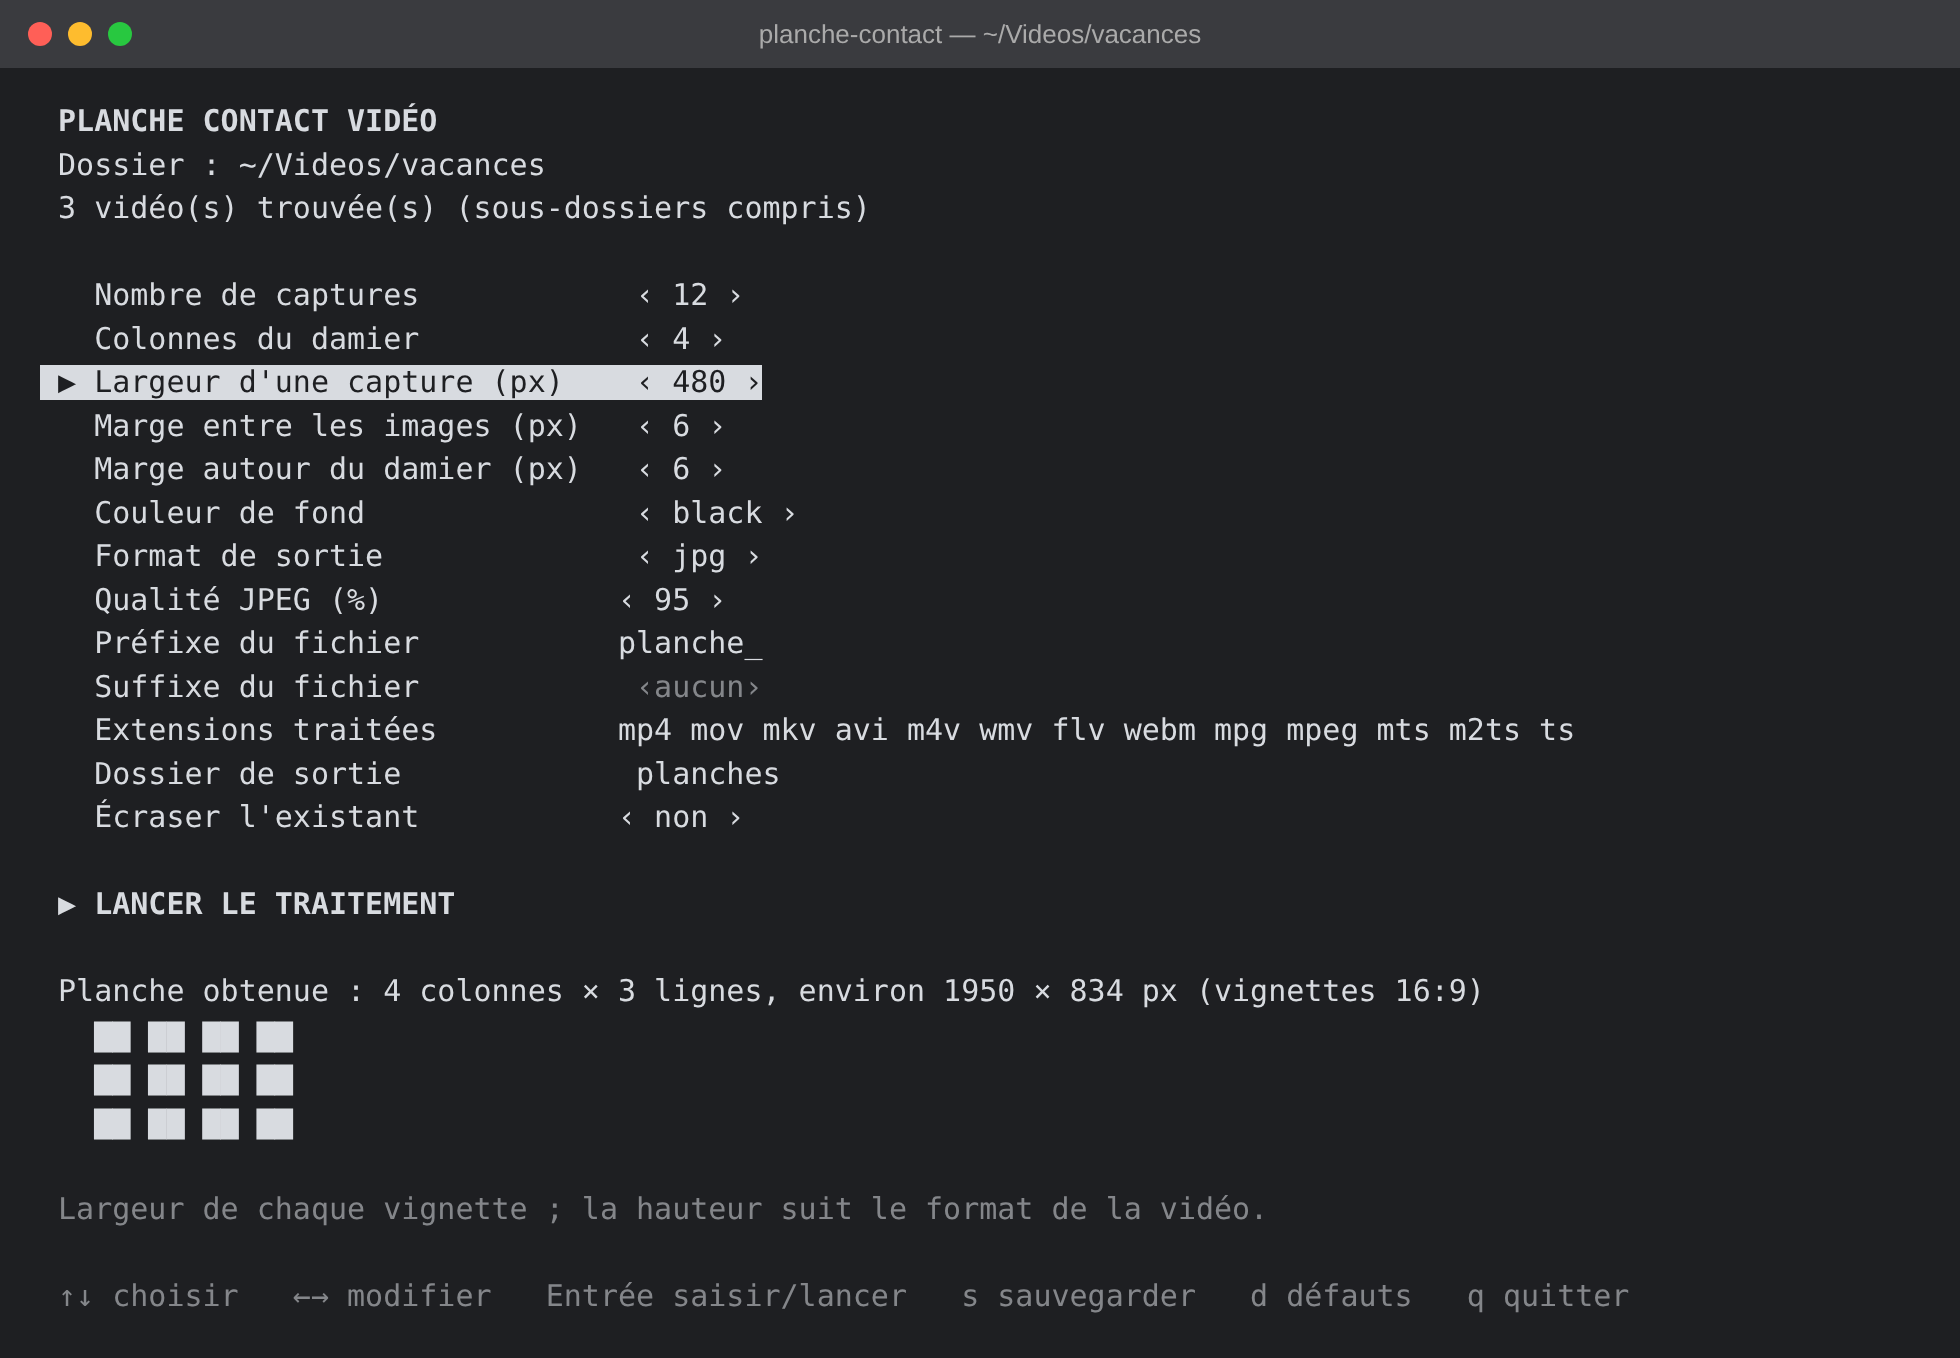
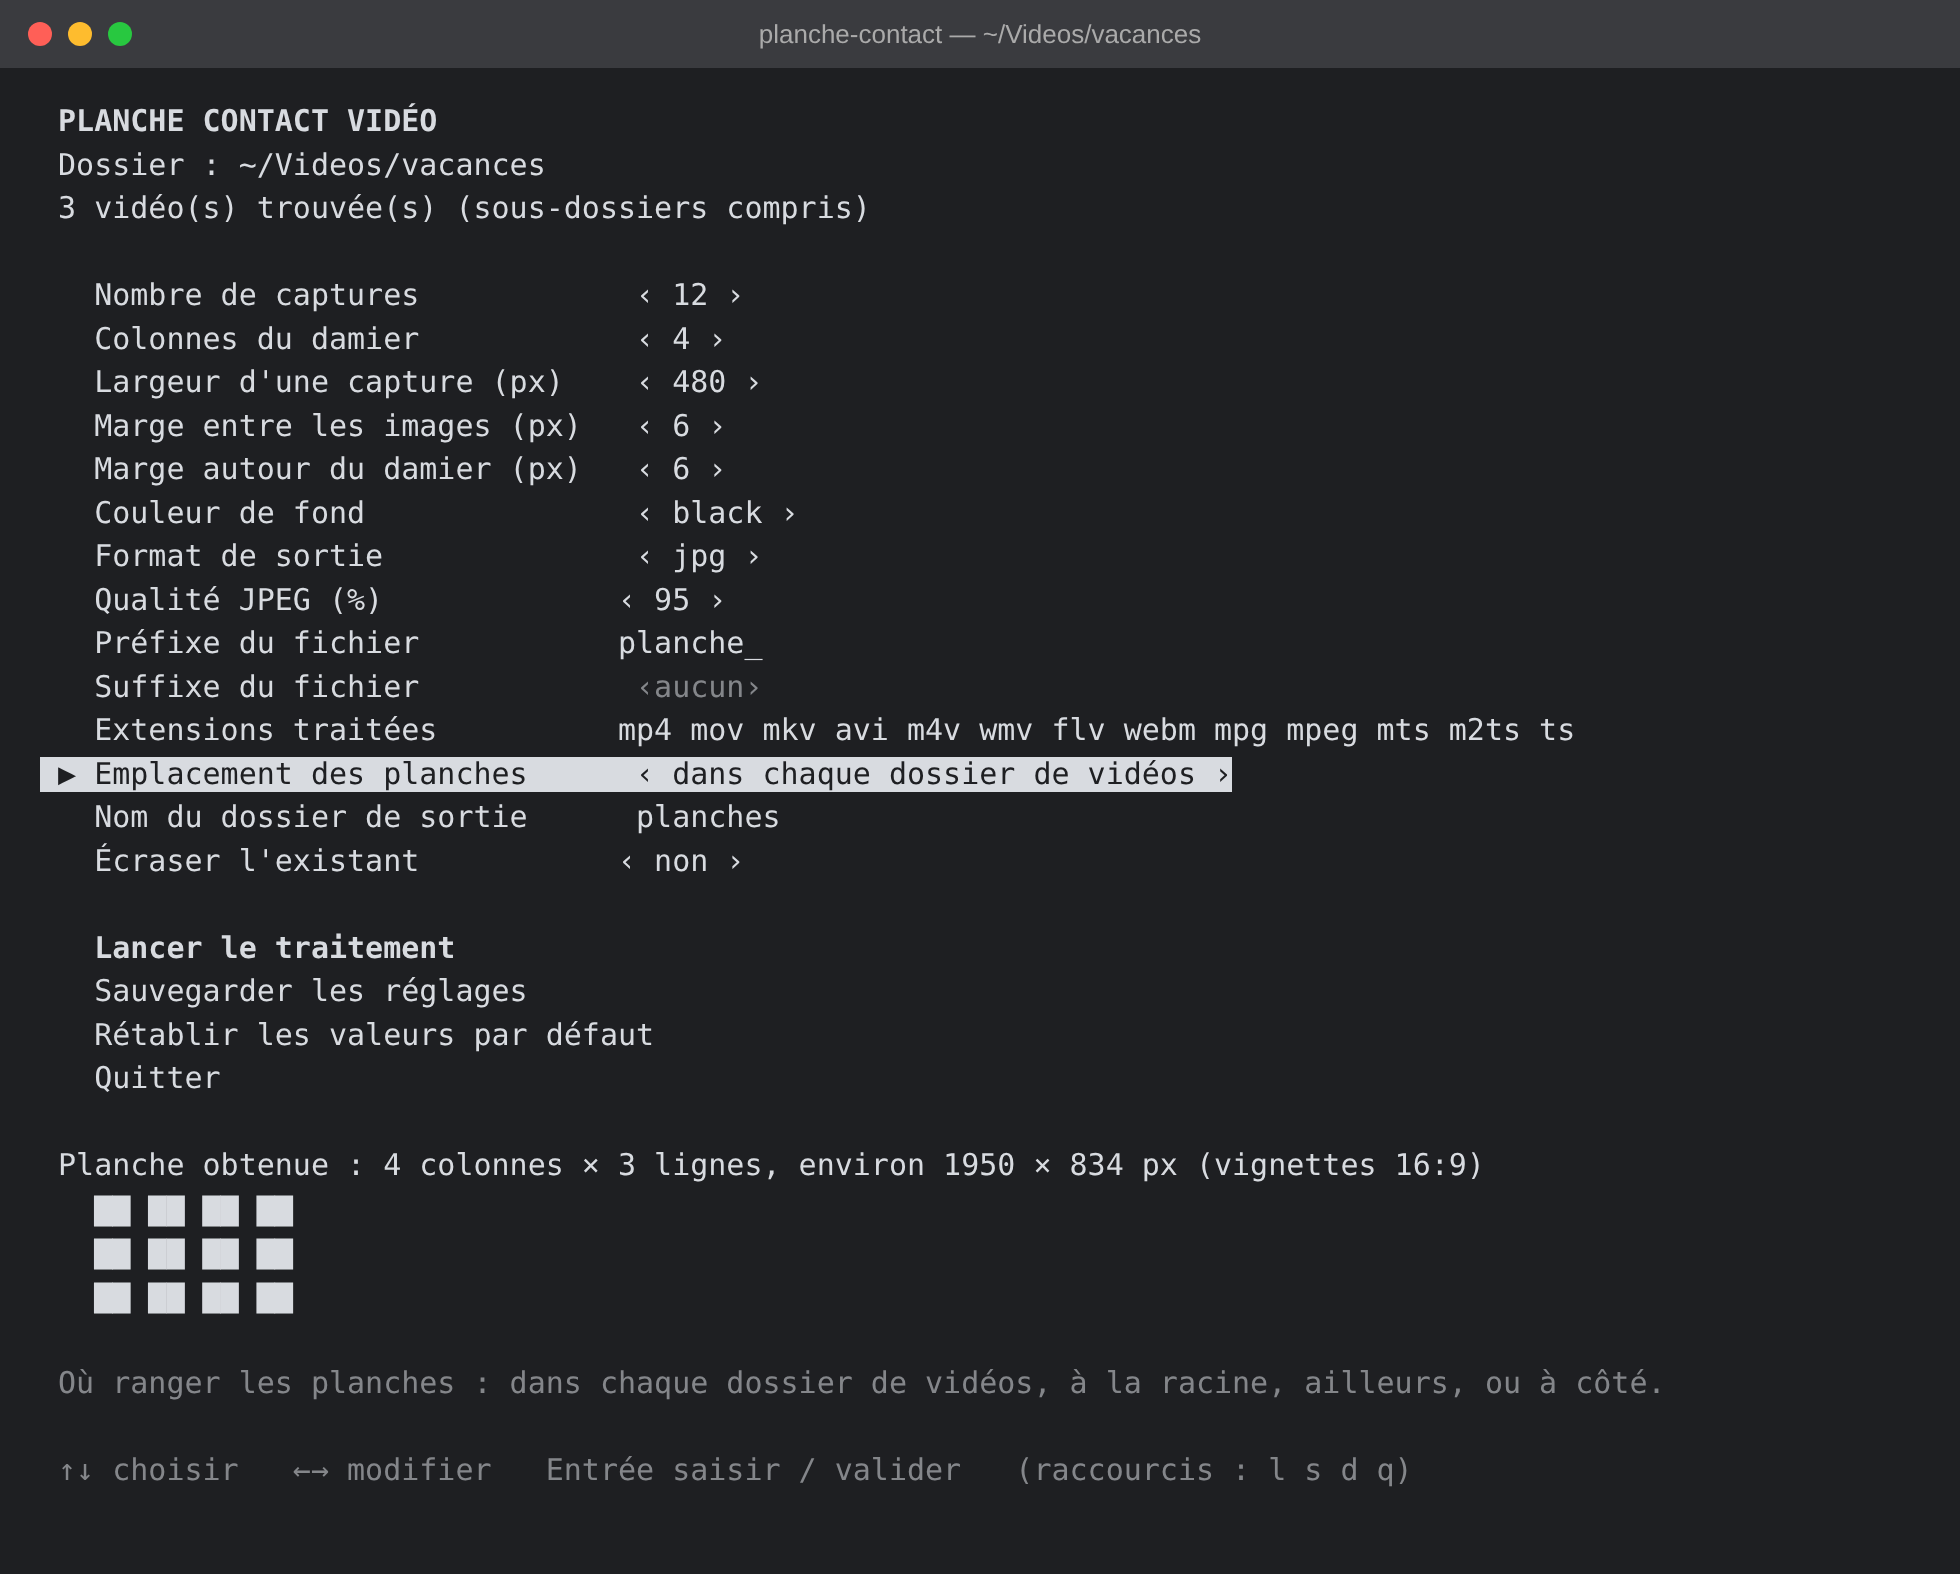
Choix de l'emplacement du dossier de sortie et actions du menu (lancer, sauvegarder, défauts, quitter) sélectionnables aux flèches
Claude-Session: https://claude.ai/code/session_013ET6z6BiTYFoRYycG2k8kt

diff --git a/README.md b/README.md
@@ -52,21 +52,26 @@ Le menu affiche le nombre de vidéos trouvées, les réglages, et un aperçu de 
 
 | Touche | Action |
 |---|---|
-| `↑` `↓` | Choisir un réglage (la dernière ligne, « Lancer le traitement », démarre le traitement avec Entrée) |
-| `←` `→` ou `Espace` | Modifier la valeur : ±1 pour les nombres (±20 px pour la largeur), liste de choix pour la couleur, le format et « écraser » |
-| `Entrée` | Saisir une valeur au clavier (nombre, couleur libre, préfixe, suffixe, extensions, dossier) |
-| `s` | Sauvegarder les réglages dans `~/.planche-contact.conf` (rechargés au lancement suivant) |
-| `d` | Rétablir les réglages par défaut |
-| `l` | Lancer le traitement |
-| `q` | Quitter |
+| `↑` `↓` | Choisir une ligne : un réglage, ou l'une des quatre actions en bas du menu |
+| `←` `→` ou `Espace` | Modifier la valeur du réglage : ±1 pour les nombres (±20 px pour la largeur), liste de choix pour la couleur, le format, l'emplacement et « écraser » |
+| `Entrée` | Sur un réglage : saisir une valeur au clavier. Sur une action : la valider |
 
-Les valeurs invalides sont refusées avec un message. Pour le préfixe, le suffixe et le dossier de sortie, saisir `-` revient à « aucun » (pour le dossier de sortie : « à côté de la vidéo »).
+Les quatre actions du bas du menu se choisissent aussi avec les flèches :
+
+| Action | Raccourci | Effet |
+|---|---|---|
+| Lancer le traitement | `l` | Traite toutes les vidéos trouvées |
+| Sauvegarder les réglages | `s` | Enregistre dans `~/.planche-contact.conf` (rechargés au lancement suivant) |
+| Rétablir les valeurs par défaut | `d` | Remet les réglages d'origine, sans les sauvegarder |
+| Quitter | `q` | Quitte sans rien traiter |
+
+Les valeurs invalides sont refusées avec un message. Pour le préfixe, le suffixe et le dossier de sortie, saisir `-` revient à « aucun » (le nom du dossier de sortie revient alors à `planches`).
 
 ### Le traitement
 
 ![Traitement d'un dossier](docs/images/execution.png)
 
-Chaque vidéo est affichée avec le fichier produit et la disposition obtenue. Les planches sont rangées dans un sous-dossier `planches` créé dans chaque dossier contenant des vidéos (voir plus bas). Une planche déjà présente est ignorée, sauf si « Écraser l'existant » est sur `oui`.
+Chaque vidéo est affichée avec le fichier produit et la disposition obtenue. Par défaut, les planches sont rangées dans un sous-dossier `planches` créé dans chaque dossier contenant des vidéos (l'emplacement se règle, voir plus bas). Une planche déjà présente est ignorée, sauf si « Écraser l'existant » est sur `oui`.
 
 ### Sans menu : options en ligne de commande
 
@@ -76,7 +81,9 @@ Les options préremplissent le menu et prennent le pas sur les réglages sauvega
 planche-contact -n 12 -c 4 -w 360 -F -y
 planche-contact -p "" -s _planche -y      # plage.mp4 → planches/plage_planche.jpg
 planche-contact -o miniatures -y          # sous-dossiers « miniatures » au lieu de « planches »
-planche-contact -o "" -y                 # planches à côté de chaque vidéo
+planche-contact -O racine -y              # un seul dossier « planches » à la racine
+planche-contact -O ailleurs -o ~/Pictures/planches -y
+planche-contact -O cote -y                # planches à côté de chaque vidéo
 ```
 
 | Option | Réglage |
@@ -89,7 +96,8 @@ planche-contact -o "" -y                 # planches à côté de chaque vidéo
 | `-f` | Format (`jpg` ou `png`) |
 | `-q` | Qualité JPEG (1 à 100) |
 | `-p` / `-s` | Préfixe / suffixe du fichier produit |
-| `-o` | Nom du sous-dossier de sortie, créé dans chaque dossier contenant des vidéos ; `-o ""` = à côté de la vidéo |
+| `-O` | Emplacement du dossier de sortie : `chaque`, `racine`, `ailleurs` ou `cote` (voir ci-dessous) |
+| `-o` | Nom du dossier de sortie (ou chemin complet avec `-O ailleurs`) |
 | `-F` | Écraser les planches existantes |
 | `-y` | Lancer sans menu |
 | `-h` | Aide |
@@ -109,7 +117,8 @@ planche-contact -o "" -y                 # planches à côté de chaque vidéo
 | Préfixe du fichier de sortie (avant le nom) | `planche_` |
 | Suffixe du fichier de sortie (après le nom) | vide |
 | Extensions vidéo traitées | mp4 mov mkv avi m4v wmv flv webm mpg mpeg mts m2ts ts |
-| Sous-dossier de sortie, créé dans chaque dossier contenant des vidéos (vide = à côté de la vidéo) | `planches` |
+| Emplacement des planches : dans chaque dossier de vidéos, à la racine, ailleurs, à côté des vidéos | dans chaque dossier |
+| Nom du dossier de sortie (chemin avec « ailleurs ») | `planches` |
 | Écraser les planches existantes | non |
 
 ## Fonctionnement
@@ -117,8 +126,17 @@ planche-contact -o "" -y                 # planches à côté de chaque vidéo
 - Les vidéos sont recherchées avec `find`, dans le dossier courant et tous ses sous-dossiers, sans tenir compte de la casse des extensions.
 - La durée est lue avec `ffprobe`. Les captures sont prises au milieu de N tranches égales de la vidéo : elles sont donc réparties uniformément, sans jamais tomber sur la toute première ou la toute dernière image.
 - L'assemblage utilise le filtre `tile` de ffmpeg (marge entre les images et marge extérieure réglables).
-- **Dossier de sortie.** Par défaut, un sous-dossier `planches` est créé dans chaque dossier qui contient des vidéos, et les planches de ces vidéos y sont rangées : `plage.mp4` donne `planches/planche_plage.jpg`, et `été 2026/randonnée.mov` donne `été 2026/planches/planche_randonnée.jpg`. Les dossiers sans vidéo ne sont pas touchés, et les dossiers de sortie ne sont pas parcourus lors de la recherche. Le nom du sous-dossier se change dans le menu ou avec `-o` (un simple nom, sans `/`). Avec un nom vide (`-o ""`), chaque planche est créée à côté de sa vidéo.
-- Le fichier produit s'appelle `<préfixe><nom de la vidéo><suffixe>.<format>`. Par exemple, `plage.mp4` donne `planche_plage.jpg` avec le préfixe par défaut, ou `plage_planche.jpg` avec `-p "" -s _planche`. Préfixe et suffixe peuvent aussi être utilisés ensemble.
+- **Emplacement des planches.** Quatre choix (réglage « Emplacement des planches », option `-O`) :
+
+  | Choix | Résultat pour `x.mp4` et `a/y.mov` |
+  |---|---|
+  | `chaque` (défaut) | `planches/planche_x.jpg` et `a/planches/planche_y.jpg` : un sous-dossier dans chaque dossier contenant des vidéos |
+  | `racine` | `planches/planche_x.jpg` et `planches/a/planche_y.jpg` : un seul dossier dans le dossier analysé, avec l'arborescence recopiée |
+  | `ailleurs` | même chose que `racine`, mais dans le dossier de votre choix, par exemple `-O ailleurs -o ~/Pictures/planches` |
+  | `cote` | `planche_x.jpg` et `a/planche_y.jpg` : à côté des vidéos, sans sous-dossier |
+
+  Le nom du dossier se règle dans le menu ou avec `-o` (un simple nom pour `chaque`, un chemin relatif pour `racine`, un chemin quelconque pour `ailleurs`). Les dossiers de sortie situés dans l'arborescence analysée ne sont pas parcourus lors de la recherche des vidéos, et les dossiers sans vidéo ne sont pas touchés.
+- Le fichier produit s'appelle `<préfixe><nom de la vidéo><suffixe>.<format>`. Par exemple, `plage.mp4` donne `planche_plage.jpg` (dans le dossier de sortie) avec le préfixe par défaut, ou `plage_planche.jpg` avec `-p "" -s _planche`. Préfixe et suffixe peuvent aussi être utilisés ensemble.
 - Les fichiers dont le nom commence par le préfixe sont ignorés lors de la recherche.
 - Si le nombre de captures n'est pas un multiple du nombre de colonnes, les cases vides prennent la couleur de fond.
 - Si certaines captures échouent, la planche est assemblée avec celles obtenues.
